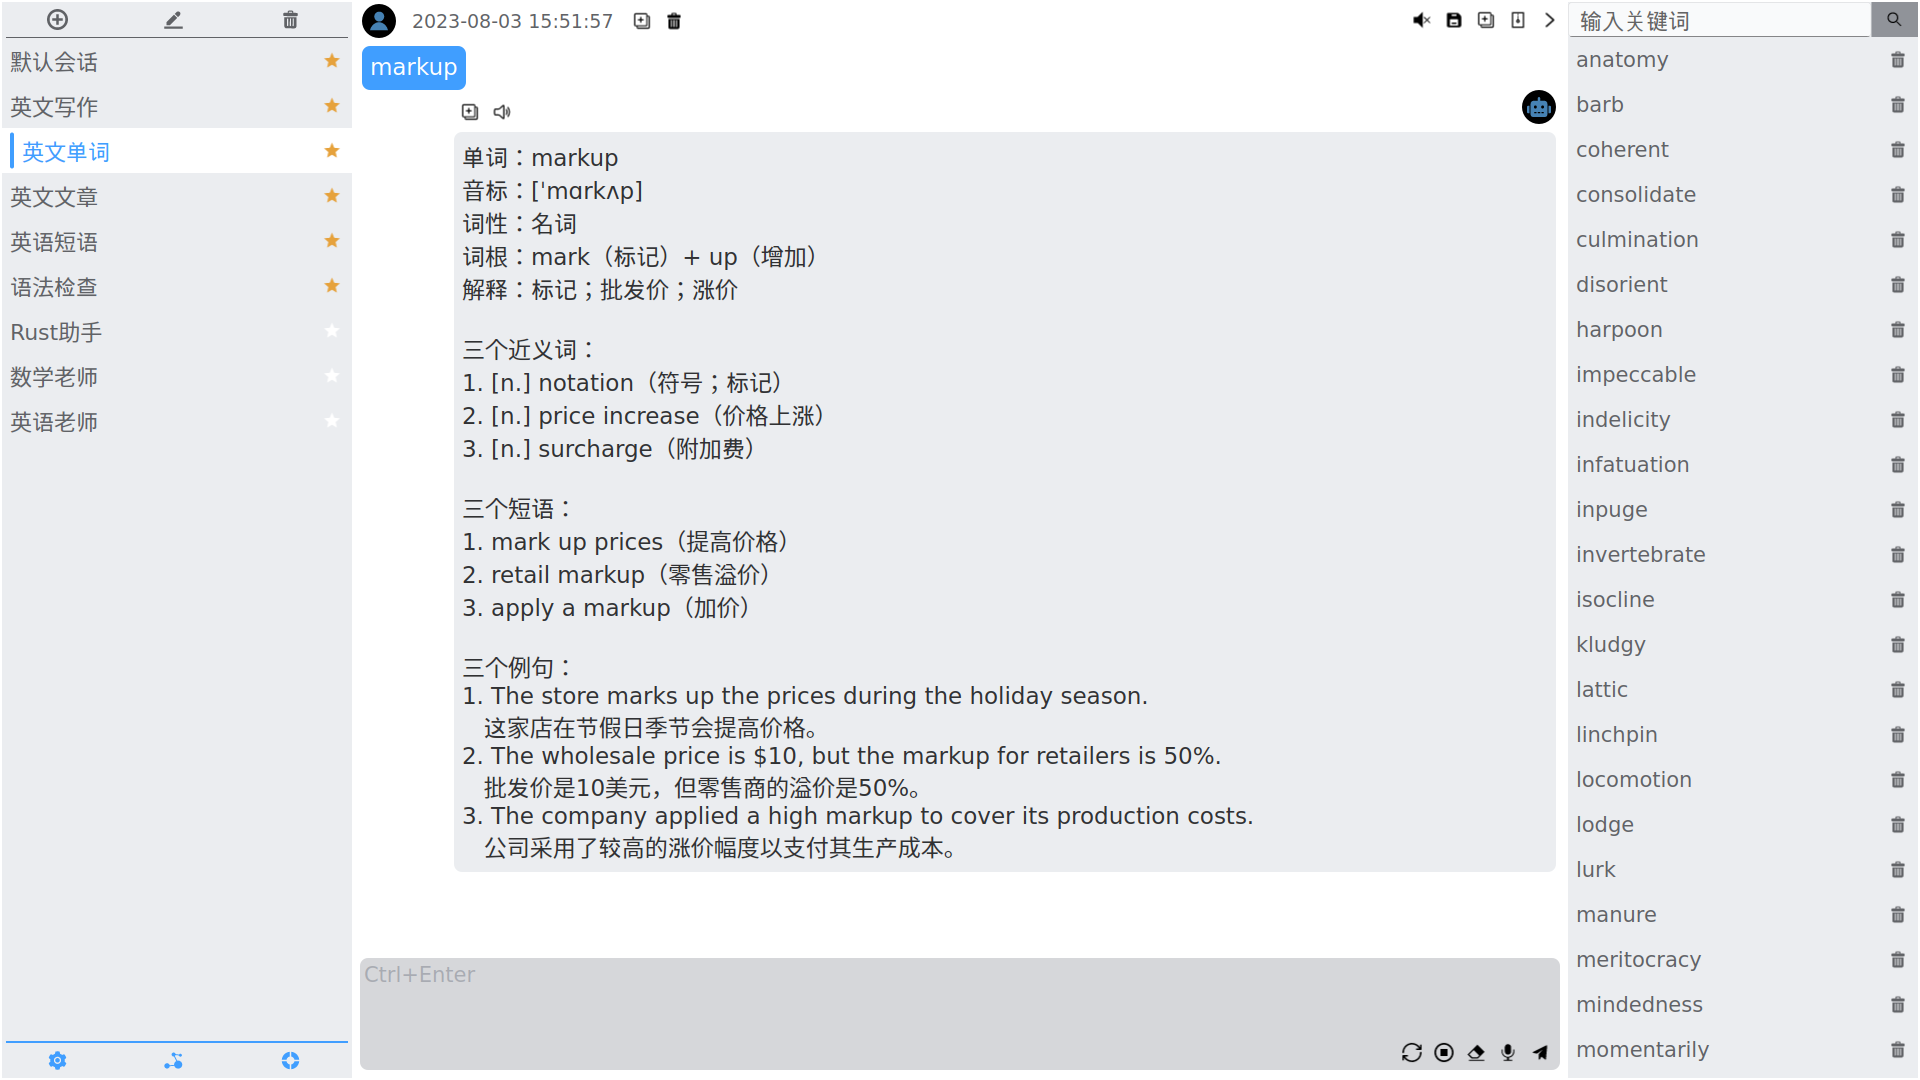
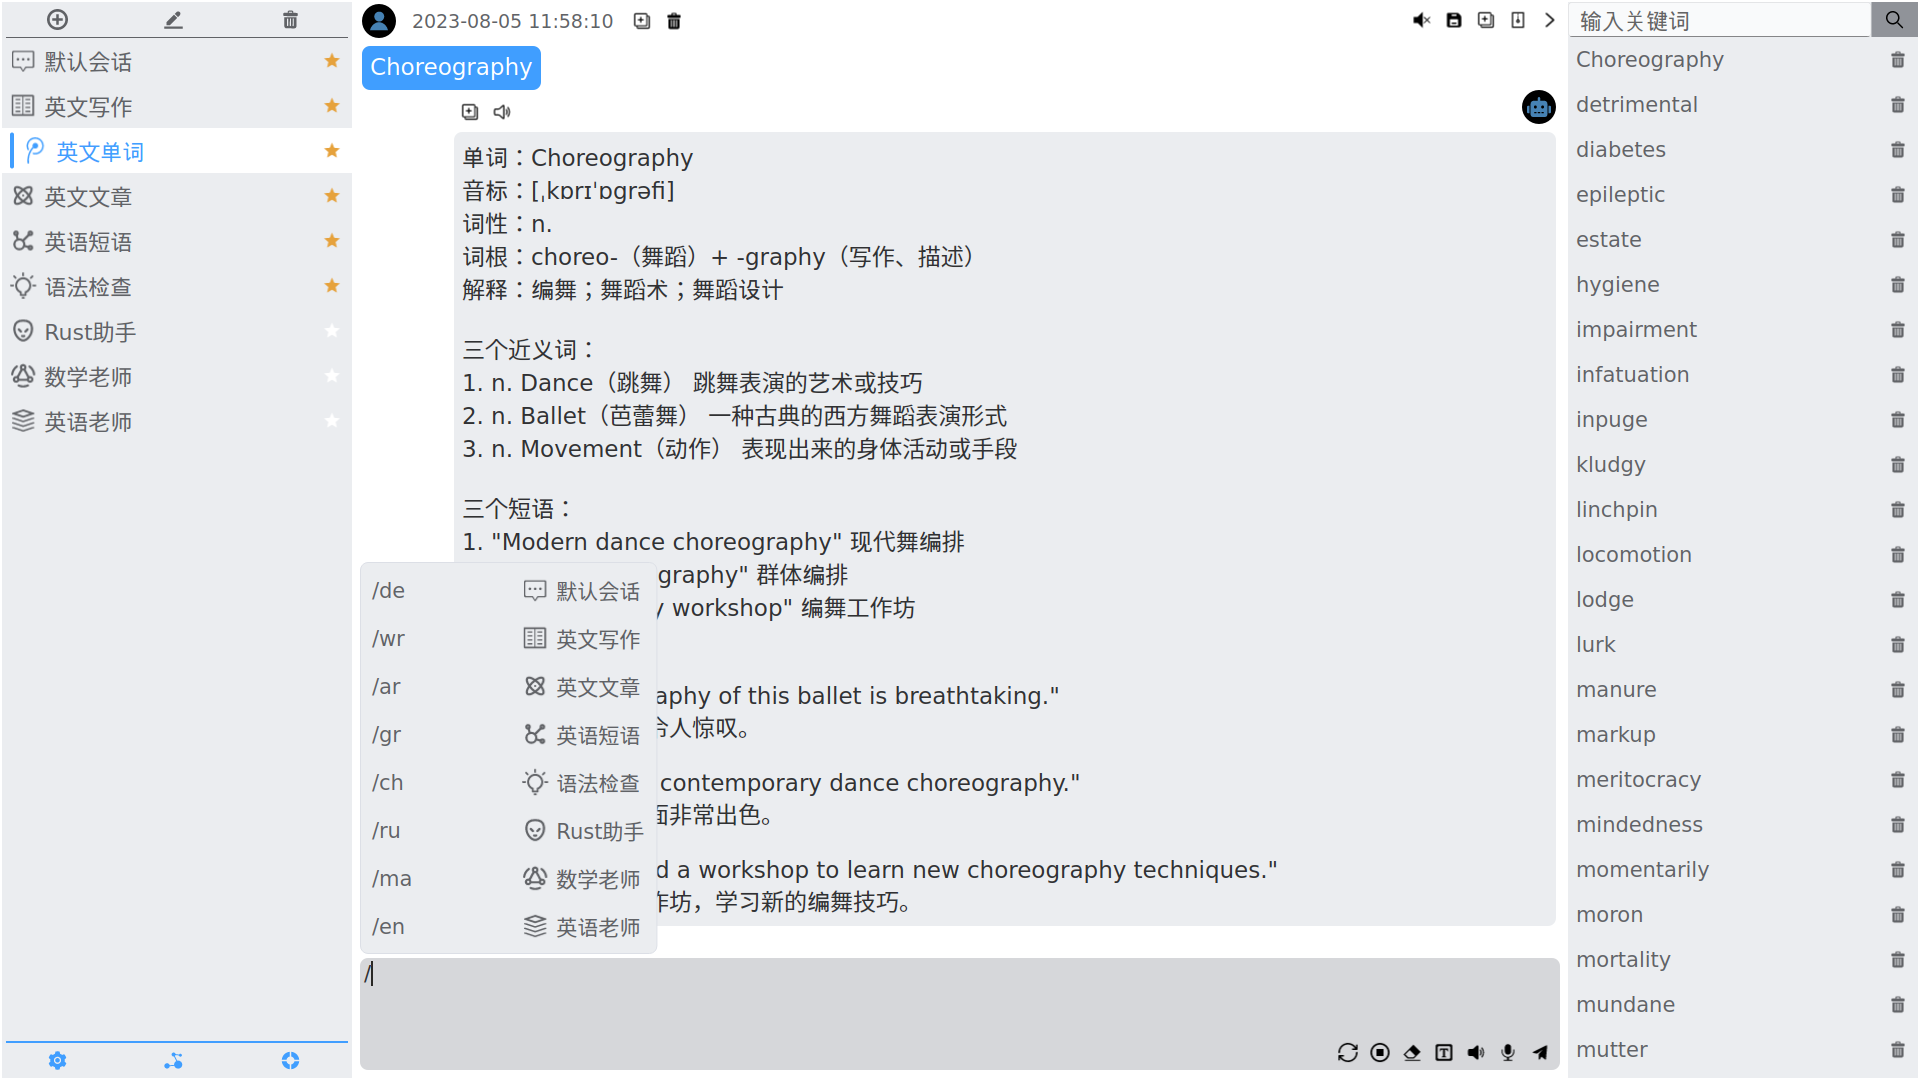
[+] 完善UI

diff --git a/chatbox/src/version.rs b/chatbox/src/version.rs
@@ -1,1 +1,1 @@
-pub static VERSION: &str = "v1.6.9";
+pub static VERSION: &str = "v1.6.10";

diff --git a/README.md b/README.md
@@ -15,6 +15,7 @@
 - [x] 支持对话归档
 - [x] 支持录音转文字输入
 - [x] 支持不同会话并发输出
+- [x] 支持快捷指令切换会话并发送问题
 
 #### 参考
 - [Slint Language Documentation](https://slint-ui.com/releases/1.0.0/docs/slint/)
